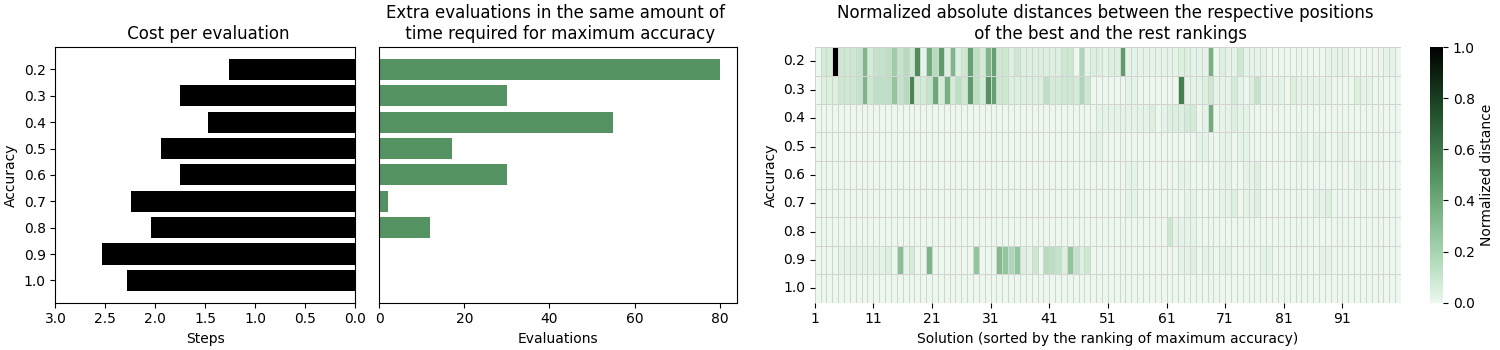
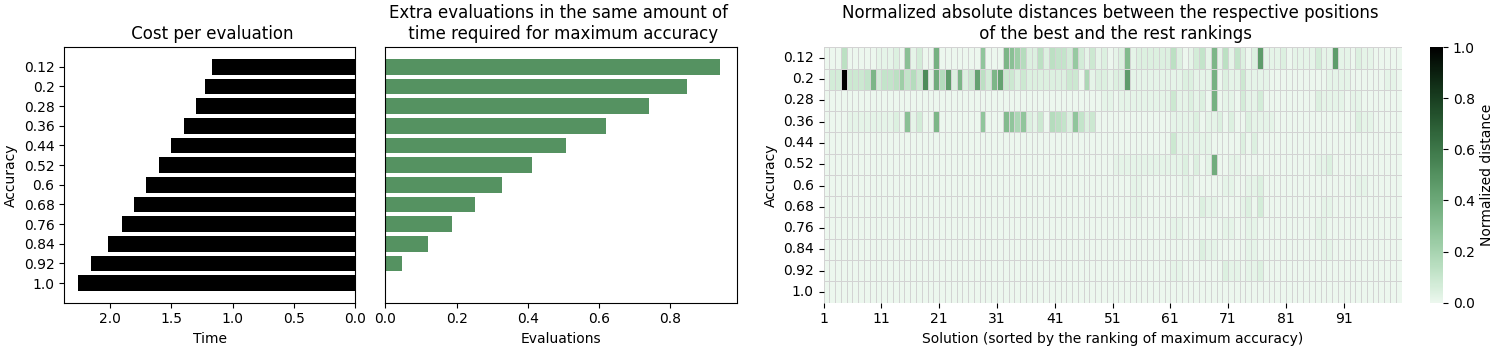
update figures (extra evaluations per evaluation, in Turbines only even parameter values and in WindFLO equidistant accuracys )

diff --git a/experimentScripts_Turbines/UnderstandingAccuracy_figures.py b/experimentScripts_Turbines/UnderstandingAccuracy_figures.py
@@ -113,7 +113,6 @@ def from_data_to_figuresI(df):
     df['ranking']=form_str_col_to_float_list_col(df['ranking'],'int')
     df['all_times']=form_str_col_to_float_list_col(df['all_times'],'float')
 
-
     # Inicializar figura (tamaño y margenes)
     plt.figure(figsize=[12,9])
     plt.subplots_adjust(left=0.09,bottom=0.11,right=0.95,top=0.88,wspace=0.3,hspace=0.4)
@@ -189,7 +188,7 @@ def from_data_to_figuresI(df):
     y=[]
     best_scores=df['all_scores'][0]
     for i in range(0,df.shape[0]):
-        ind_best_turb=df['ranking'][i][-1]
+        ind_best_turb=df['ranking'][i].index(max(df['ranking'][i]))
         quality_loss=(max(best_scores)-best_scores[ind_best_turb])/max(best_scores)
         y.append(quality_loss)
 
@@ -226,6 +225,81 @@ def from_data_to_figuresI(df):
 
 # FUNCIÓN 8 (Gráfica de motivación II)
 def from_data_to_figuresII(df):
+
+    # Inicializar gráfica.
+    plt.figure(figsize=[17,5])
+    plt.subplots_adjust(left=0.06,bottom=0.11,right=0.95,top=0.88,wspace=0.3,hspace=0.69)
+
+    #----------------------------------------------------------------------------------------------
+    # GRÁFICA 1: tiempo de ejecución por accuracy.
+    #----------------------------------------------------------------------------------------------
+    ax=plt.subplot(131)
+
+    list_acc=list(set(df['accuracy']))
+    list_acc.sort()
+
+    all_means=[]
+    all_q05=[]
+    all_q95=[]
+
+    for accuracy in list_acc:
+        mean,q05,q95=bootstrap_mean_and_confidence_interval(list(df[df['accuracy']==accuracy]['time']))
+        all_means.append(mean)
+        all_q05.append(q05)
+        all_q95.append(q95)
+
+    ax.fill_between(list_acc,all_q05,all_q95, alpha=.5, linewidth=0)
+    plt.plot(list_acc, all_means, linewidth=2) 
+    ax.set_xlabel("Accuracy")
+    ax.set_ylabel("Time per evaluation")
+    ax.set_title('Evaluation cost depending on accuracy')
+
+
+    #----------------------------------------------------------------------------------------------
+    # GRÁFICA 2: extra de evaluaciones.
+    #----------------------------------------------------------------------------------------------
+    ax=plt.subplot(132)
+
+    list_extra_eval=[]
+    for i in range(0,len(all_means)):
+        # Ahorro de tiempo.
+        save_time=all_means[-1]-all_means[i]
+        # Número de evaluaciones extra que se podrian hacer para agotar el tiempo que se necesita por defecto.
+        extra_eval=save_time/all_means[i]
+        if extra_eval<0:
+            extra_eval=0
+        list_extra_eval.append(extra_eval)
+
+    plt.bar([str(acc) for acc in list_acc],list_extra_eval)
+    ax.set_xlabel('Accuracy')
+    ax.set_ylabel('Number of extra evaluations')
+    plt.xticks(rotation = 0)
+    ax.set_title('Extra evaluations in the same amount \n of time required for maximum accuracy')
+
+
+    #----------------------------------------------------------------------------------------------
+    # GRÁFICA 3: soluciones nulas por valor de accuracy.
+    #----------------------------------------------------------------------------------------------
+    ax=plt.subplot(133)
+
+    list_null_scores=[]
+    for accuracy in list_acc:
+        list_null_scores.append(sum(np.array(list(df[df['accuracy']==accuracy]['score']))==0)/100)
+
+    plt.bar([str(acc) for acc in list_acc],list_null_scores)
+    ax.set_xlabel('Accuracy')
+    ax.set_ylabel('Percentaje of null solutions')
+    plt.xticks(rotation = 0)
+    ax.set_title('Presence of null solutions')
+
+
+    # Guardar imagen.
+    plt.savefig('results/figures/Turbines/UnderstandingAccuracyII.png')
+    plt.show()
+    plt.close()
+
+# FUNCIÓN 9 (Gráfica de motivación III)
+def from_data_to_figuresIII(df):
 
     # Inicializar gráfica.
     plt.figure(figsize=[15,10])
@@ -376,10 +450,9 @@ def from_data_to_figuresII(df):
     # ax.set_xscale('log')
 
     # Guardar imagen.
-    plt.savefig('results/figures/Turbines/UnderstandingAccuracyII.png')
+    plt.savefig('results/figures/Turbines/UnderstandingAccuracyIII.png')
     plt.show()
     plt.close()
-
 
 # FUNCIÓN 9 (Gráfica para el paper)
 def from_data_to_figures_paper(df):
@@ -409,13 +482,12 @@ def from_data_to_figures_paper(df):
         all_q95.append(q95)
 
     # Evaluaciones extra.
-    list_total_times=list(df.groupby('accuracy')['time'].sum())
     list_extra_eval=[]
-    for i in range(0,len(list_total_times)):
+    for i in range(0,len(all_means)):
         # Ahorro de tiempo.
-        save_time=list_total_times[-1]-list_total_times[i]
+        save_time=all_means[-1]-all_means[i]
         # Número de evaluaciones extra que se podrían hacer para agotar el tiempo que se necesita por defecto.
-        extra_eval=int(save_time/all_means[i])
+        extra_eval=save_time/all_means[i]
         list_extra_eval.append(extra_eval)
 
     color = sns.cubehelix_palette(start=2, rot=0, dark=0, light=.95, reverse=True, as_cmap=True)
@@ -428,9 +500,9 @@ def from_data_to_figures_paper(df):
     plt.barh(list_acc_str, y, align='center',color=color[0])
     plt.title("\n Cost per evaluation")
     plt.ylabel("Accuracy")
-    plt.xlabel("Steps")
-    ax.set_xticks(np.arange(0,-3.5,-0.5))
-    ax.set_xticklabels(np.arange(0,3.5,0.5),rotation=0)
+    plt.xlabel("Time")
+    ax.set_xticks(np.arange(0,-2.5,-0.5))
+    ax.set_xticklabels(np.arange(0,2.5,0.5),rotation=0)
     
 
     ax=subfigs[1].subplots()
@@ -509,8 +581,11 @@ def from_data_to_figures_paper(df):
 # Lectura de datos.
 df1=pd.read_csv('results/data/Turbines/UnderstandingAccuracy/UnderstandingAccuracyI.csv',index_col=0)
 df2=pd.read_csv('results/data/Turbines/UnderstandingAccuracy/UnderstandingAccuracyII.csv',index_col=0)
+df3=pd.read_csv('results/data/Turbines/UnderstandingAccuracy/UnderstandingAccuracyIII.csv',index_col=0)
 
 # Dibujar gráficas.
 from_data_to_figuresI(df1)
 from_data_to_figuresII(df2)
-from_data_to_figures_paper(df2)
+from_data_to_figuresIII(df3)
+from_data_to_figures_paper(df3)
+

diff --git a/experimentScripts_MuJoCo/UnderstandingAccuracy_figures.py b/experimentScripts_MuJoCo/UnderstandingAccuracy_figures.py
@@ -264,13 +264,13 @@ def from_data_to_figures_paper(df):
         all_q95.append(q95)
 
     # Evaluaciones extra.
-    list_total_times=list(df.groupby('accuracy')['steps'].sum())
+
     list_extra_eval=[]
-    for i in range(0,len(list_total_times)):
+    for i in range(0,len(all_means)):
         # Ahorro de tiempo.
-        save_time=list_total_times[-1]-list_total_times[i]
+        save_time=all_means[-1]-all_means[i]
         # Número de evaluaciones extra que se podrían hacer para agotar el tiempo que se necesita por defecto.
-        extra_eval=int(save_time/all_means[i])
+        extra_eval=save_time/all_means[i]
         list_extra_eval.append(extra_eval)
 
     color = sns.cubehelix_palette(start=2, rot=0, dark=0, light=.95, reverse=True, as_cmap=True)
@@ -284,8 +284,8 @@ def from_data_to_figures_paper(df):
     plt.title("\n Cost per evaluation")
     plt.ylabel("Accuracy")
     plt.xlabel("Steps")
-    ax.set_xticks(range(0,-12000,-2000))
-    ax.set_xticklabels(range(0,12000,2000),rotation=0)
+    ax.set_xticks(range(0,-1200,-200))
+    ax.set_xticklabels(range(0,1200,200),rotation=0)
 
     ax=subfigs[1].subplots()
     for i in range(len(list_extra_eval)):

diff --git a/experimentScripts_WindFLO/UnderstandingAccuracy_figures.py b/experimentScripts_WindFLO/UnderstandingAccuracy_figures.py
@@ -264,13 +264,12 @@ def from_data_to_figures_paper(df):
         all_q95.append(q95)
 
     # Evaluaciones extra.
-    list_total_times=list(df.groupby('accuracy')['time'].sum())
     list_extra_eval=[]
-    for i in range(0,len(list_total_times)):
+    for i in range(0,len(all_means)):
         # Ahorro de tiempo.
-        save_time=list_total_times[-1]-list_total_times[i]
+        save_time=all_means[-1]-all_means[i]
         # Número de evaluaciones extra que se podrían hacer para agotar el tiempo que se necesita por defecto.
-        extra_eval=int(save_time/all_means[i])
+        extra_eval=save_time/all_means[i]
         list_extra_eval.append(extra_eval)
 
     color = sns.cubehelix_palette(start=2, rot=0, dark=0, light=.95, reverse=True, as_cmap=True)
@@ -283,7 +282,7 @@ def from_data_to_figures_paper(df):
     plt.barh(list_acc_str, y, align='center',color=color[0])
     plt.title("\n Cost per evaluation")
     plt.ylabel("Accuracy")
-    plt.xlabel("Steps")
+    plt.xlabel("Time")
     ax.set_xticks(np.arange(0,-0.1,-0.02))
     ax.set_xticklabels(np.arange(0,0.1,0.02),rotation=0)
 

diff --git a/experimentScripts_SymbolicRegressor/UnderstandingAccuracy_figures.py b/experimentScripts_SymbolicRegressor/UnderstandingAccuracy_figures.py
@@ -264,13 +264,12 @@ def from_data_to_figures_paper(df):
         all_q95.append(q95)
 
     # Evaluaciones extra.
-    list_total_times=list(df.groupby('accuracy')['n_eval'].sum())
     list_extra_eval=[]
-    for i in range(0,len(list_total_times)):
+    for i in range(0,len(all_means)):
         # Ahorro de tiempo.
-        save_time=list_total_times[-1]-list_total_times[i]
+        save_time=all_means[-1]-all_means[i]
         # Número de evaluaciones extra que se podrían hacer para agotar el tiempo que se necesita por defecto.
-        extra_eval=int(save_time/all_means[i])
+        extra_eval=save_time/all_means[i]
         list_extra_eval.append(extra_eval)
 
     color = sns.cubehelix_palette(start=2, rot=0, dark=0, light=.95, reverse=True, as_cmap=True)

diff --git a/experimentScripts_CartPole/UnderstandingAccuracy_figures.py b/experimentScripts_CartPole/UnderstandingAccuracy_figures.py
@@ -264,13 +264,12 @@ def from_data_to_figures_paper(df):
         all_q95.append(q95)
 
     # Evaluaciones extra.
-    list_total_times=list(df.groupby('accuracy')['steps'].sum())
     list_extra_eval=[]
-    for i in range(0,len(list_total_times)):
+    for i in range(0,len(all_means)):
         # Ahorro de tiempo.
-        save_time=list_total_times[-1]-list_total_times[i]
+        save_time=all_means[-1]-all_means[i]
         # Número de evaluaciones extra que se podrían hacer para agotar el tiempo que se necesita por defecto.
-        extra_eval=int(save_time/all_means[i])
+        extra_eval=save_time/all_means[i]
         list_extra_eval.append(extra_eval)
 
     color = sns.cubehelix_palette(start=2, rot=0, dark=0, light=.95, reverse=True, as_cmap=True)
